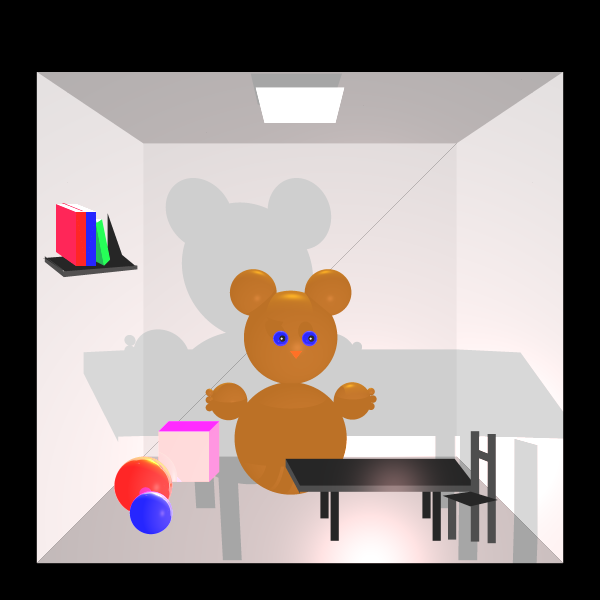
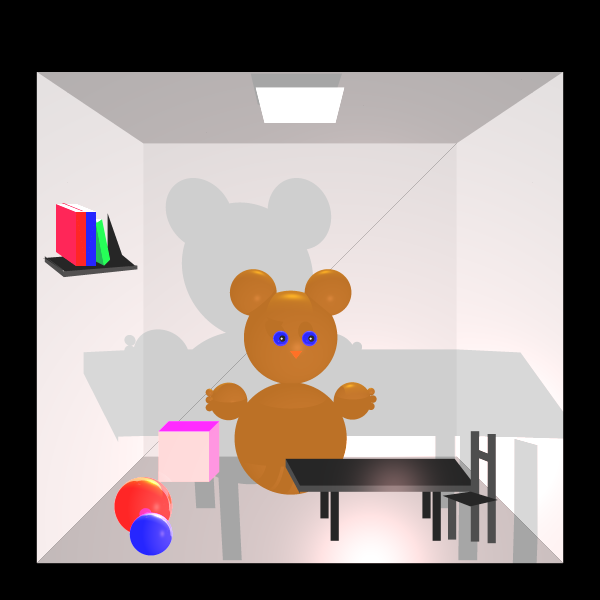
debut_8

Changed region(s): [[0.18, 0.75, 0.3, 0.93]]

diff --git a/src/geometries/Cylinder.java b/src/geometries/Cylinder.java
@@ -8,15 +8,16 @@ import static primitives.Util.alignZero;
 import static primitives.Util.isZero;
 
 
-public class Cylinder  extends Tube{
+public class Cylinder extends Tube {
 
     final double height;
 
     /**
      * cylinder constructor
-     * @param  axisRay value for the Ray
-     * @param radius value for the radius of the cylinder
-     * @param height value for the cylinder's height
+     *
+     * @param axisRay value for the Ray
+     * @param radius  value for the radius of the cylinder
+     * @param height  value for the cylinder's height
      */
     public Cylinder(Ray axisRay, double radius, double height) {
         super(axisRay, radius);
@@ -25,6 +26,7 @@ public class Cylinder  extends Tube{
 
     /**
      * get cylinder's height
+     *
      * @return height of the cylinder
      */
     public double getHeight() {
@@ -33,6 +35,7 @@ public class Cylinder  extends Tube{
 
     /**
      * override the function toString for cylinder
+     *
      * @return string
      */
     @Override
@@ -46,7 +49,8 @@ public class Cylinder  extends Tube{
 
     /**
      * override the getNormal function for cylinder
-     * @param point point
+     *
+     * @param point the value of point
      * @return the normal of the cylinder
      */
     @Override
@@ -66,8 +70,11 @@ public class Cylinder  extends Tube{
         if (t == 0 || isZero(height - t)) // if it's close to 0, we'll get ZERO vector exception
             return v;
 
+        //do a scale between them
         o = o.add(v.scale(t));
-        return o.subtract(point).normalize();
+        //kipp the result and return it
+        Vector result = o.subtract(point).normalize();
+        return result;
 
     }
 }

diff --git a/src/geometries/Geometries.java b/src/geometries/Geometries.java
@@ -8,25 +8,47 @@ import java.util.List;
 
 public class Geometries extends Intersectable {
 
+    //initialized intersectable list to null
     private List<Intersectable> _intersectables = null;
 
+    /**
+     * the constructor
+     * @param intersectables list of intersectable
+     */
     public Geometries(Intersectable... intersectables) {
         this();
         add(intersectables);
     }
 
+    /**
+     * default constructor
+     */
     public Geometries() {
         _intersectables = new LinkedList<>();
     }
 
+    /**
+     * this function add new link in the list
+     * @param intersectables list of intersectable
+     */
     public void add(Intersectable... intersectables) {
         Collections.addAll(_intersectables, intersectables);
     }
 
+    /**
+     * this function remove link of the list
+     * @param intersectables list of intersectable
+     */
     public void remove(Intersectable... intersectables) {
         _intersectables.removeAll(List.of(intersectables));
     }
 
+    /**
+     * override findGeoIntersectionsHelper function
+     * @param ray ray intersecting the geometry
+     * @param maxDistance maximum distance to look for intersections geometries
+     * @return a list of all the geometries that comes in intersection
+     */
     @Override
     public List<GeoPoint> findGeoIntersectionsHelper(Ray ray, double maxDistance) {
         List<GeoPoint> result = null;

diff --git a/unitTest/images/ourImages.java b/unitTest/images/ourImages.java
@@ -152,6 +152,9 @@ public class ourImages {
                 .renderImage().writeToImage();
     }
 
+    /**
+     * this is our final project
+     */
     @Test
     public void project1() {
 
@@ -641,10 +644,10 @@ public class ourImages {
 
 
                 //balls
-                new Sphere(new Point(-76, -90, 30), 14) //
+                new Sphere(new Point(-76, -100, 30), 14) //
                         .setEmission(new Color(red)) //
                         .setMaterial(new Material().setKd(0.5).setKs(0.5).setKr(0.5).setShininess(30)),
-                new Sphere(new Point(-70, -100, 60), 10d) //
+                new Sphere(new Point(-70, -110, 60), 10d) //
                         .setEmission(new Color(blue)) //
                         .setMaterial(new Material().setKd(0.5).setKs(0.5).setKr(0.5).setShininess(30))
 
